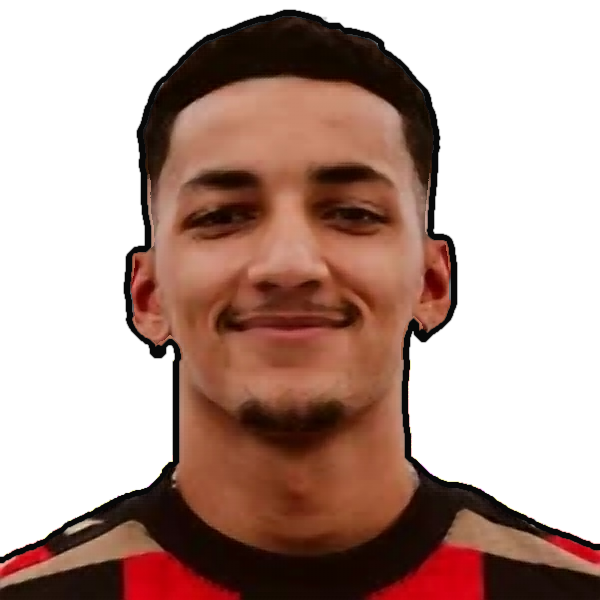
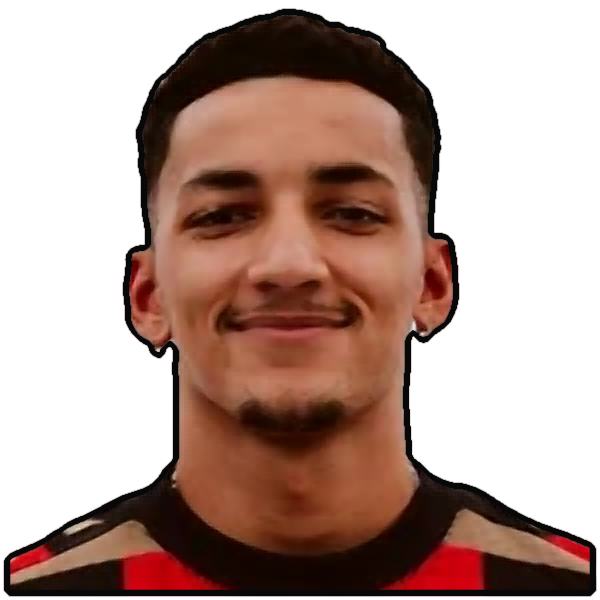
Calidad visual: caras con matting, PNG a 2160x2700, escudos HD, tildes y cartel del cambio; rehechas las del 18/10
Claude-Session: https://claude.ai/code/session_01LpAft37KJfH8XdJiSVxrmS

diff --git a/automatizacion/caras.py b/automatizacion/caras.py
@@ -20,8 +20,92 @@ def _bajar(url):
         return r.read()
 
 
+_sesiones = {}
+
+
+def _mascara(im, modelo):
+    from rembg import remove, new_session
+    if modelo not in _sesiones:
+        _sesiones[modelo] = new_session(modelo)
+    return np.asarray(remove(im, session=_sesiones[modelo], only_mask=True)).astype(float) / 255.0
+
+
 def _sin_fondo(im):
-    """Saca el fondo. 1) rembg (modelo isnet-general-use, el que mejor respeta el pelo) da la máscara de la persona.
+    """Saca el fondo (v2, 18/10/2026).
+    1) Dos modelos: u2net_human_seg (silueta de persona completa: hombros y cara enteros, nunca come piel clara)
+       e isnet-general-use (detalle del pelo). Se usa la unión, la figura más grande y sin agujeros.
+    2) Trimapa: núcleo seguro (erosión), fondo seguro (afuera de la figura dilatada, más el color del fondo
+       conectado al borde) y una banda angosta de duda en el contorno.
+    3) Matting de forma cerrada (pymatting) en la banda: transparencia real pelo por pelo, también en el blanco
+       que queda entre los rulos; y estimación del color de la persona sin el fondo mezclado (sin aureola).
+    Si algo falla, usa el método anterior."""
+    try:
+        return _sin_fondo_matting(im)
+    except Exception as ex:  # noqa
+        print("  aviso: recorte con matting falló, uso el anterior:", ex)
+        return _sin_fondo_v1(im)
+
+
+def _sin_fondo_matting(im):
+    from scipy import ndimage as ndi
+    from pymatting import estimate_alpha_cf, estimate_foreground_ml
+    im = im.convert("RGB")
+    a = np.asarray(im).astype(float)
+    H, W = a.shape[:2]; lado = min(H, W)
+    m_h = _mascara(im, "u2net_human_seg")
+    m_i = _mascara(im, "isnet-general-use")
+    base = np.maximum(m_h, m_i) > 0.5
+    lab, nl = ndi.label(base)
+    if nl > 1:
+        tam = ndi.sum(base, lab, range(1, nl + 1)); base = lab == (1 + int(np.argmax(tam)))
+    base = ndi.binary_fill_holes(base)
+    if base.sum() < 0.05 * H * W:
+        raise ValueError("máscara vacía")
+    # color del fondo (bordes de arriba y costados) y fondo conectado al borde
+    k = max(2, lado // 60)
+    borde = np.concatenate([a[:k].reshape(-1, 3), a[:, :k].reshape(-1, 3), a[:, -k:].reshape(-1, 3)])
+    bg = np.median(borde, axis=0)
+    dist = np.sqrt(((a - bg) ** 2).sum(axis=2))
+    lowd = dist < 18
+    semillas = np.zeros_like(lowd); semillas[0, :] = True
+    h7 = int(H * 0.7); semillas[:h7, 0] = True; semillas[:h7, -1] = True
+    fondo = ndi.binary_propagation(semillas & lowd, mask=lowd)
+    # trimapa
+    r_in, r_out = max(3, int(lado * 0.014)), max(3, int(lado * 0.012))
+    nucleo = ndi.binary_erosion(base, iterations=r_in)
+    nucleo_h = ndi.binary_erosion(m_h > 0.5, iterations=r_in)          # cara/hombros seguros del modelo de personas
+    seguro_fg = (nucleo | nucleo_h) & ~fondo
+    seguro_bg = ~ndi.binary_dilation(base, iterations=r_out) | (fondo & ~ndi.binary_erosion(base, iterations=r_in * 3))
+    tri = np.full((H, W), 0.5)
+    tri[seguro_bg] = 0.0
+    tri[seguro_fg] = 1.0
+    # los hombros que tocan el borde de abajo: siempre persona
+    tri[-max(2, lado // 100):][base[-max(2, lado // 100):]] = 1.0
+    img = a / 255.0
+    alfa = estimate_alpha_cf(img, tri, laplacian_kwargs={"epsilon": 1e-6}, cg_kwargs={"maxiter": 2000})
+    alfa = np.clip(alfa, 0, 1)
+    # sin motas sueltas: solo lo conectado a la figura principal
+    sol = alfa > 0.15
+    lab, nl = ndi.label(sol)
+    if nl > 1:
+        tam = ndi.sum(sol, lab, range(1, nl + 1)); keep = lab == (1 + int(np.argmax(tam)))
+        alfa = np.where(keep, alfa, 0.0)
+    # hombros y camiseta (abajo): la camiseta clara se confunde con el fondo blanco -> silueta del modelo de
+    # personas, alisada (contorno prolijo), con transición suave hacia la zona de la cabeza
+    r = max(3, lado // 80)
+    yy, xx = np.ogrid[-r:r + 1, -r:r + 1]; disco = xx * xx + yy * yy <= r * r
+    hom = ndi.binary_closing(ndi.binary_opening(m_h > 0.5, structure=disco), structure=disco)
+    hom = ndi.gaussian_filter(hom.astype(float), max(1.0, lado / 400)) 
+    hom = np.clip((hom - 0.5) * 4 + 0.5, 0, 1)
+    peso = np.clip((np.arange(H)[:, None] / H - 0.58) / 0.08, 0, 1) * np.ones((1, W))
+    alfa = alfa * (1 - peso) + hom * peso
+    alfa = np.where(alfa < 0.04, 0.0, np.where(alfa > 0.97, 1.0, alfa))
+    fg = estimate_foreground_ml(img, alfa)
+    return Image.fromarray(np.dstack([np.clip(fg * 255, 0, 255), alfa * 255]).astype("uint8"), "RGBA")
+
+
+def _sin_fondo_v1(im):
+    """Saca el fondo (método anterior). 1) rembg (modelo isnet-general-use, el que mejor respeta el pelo) da la máscara de la persona.
     2) Lo que tiene el color del fondo y está conectado al borde de arriba o de los costados se borra aunque el
        modelo lo haya incluido (el blanco entre rulos, los halos alrededor de la cabeza).
     3) En el borde, la transparencia sale de la distancia al color del fondo y se le saca al color el fondo
@@ -115,6 +199,15 @@ def _contorno(im, grosor=None):
     m = a[..., 3] > 110
     if not m.any():
         return im
+    # una sola figura y sin agujeros: el contorno va solo por afuera (sin puntos ni líneas sueltas)
+    lab, nl = ndi.label(m)
+    if nl > 1:
+        tam = ndi.sum(m, lab, range(1, nl + 1)); m = lab == (1 + int(np.argmax(tam)))
+    m = ndi.binary_fill_holes(m)
+    # contorno parejo: sin dientes de 1-2 px que el trazo negro exagera
+    m = ndi.binary_opening(ndi.binary_closing(m, iterations=2), iterations=1)
+    m = ndi.gaussian_filter(m.astype(float), max(1.0, min(H, W) / 300)) > 0.5
+    a[..., 3] = np.where(m, np.maximum(a[..., 3], 0), 0)
     dentro = m & ~ndi.binary_erosion(m, iterations=max(1, g // 2 + 1), border_value=1)
     fuera = ndi.binary_dilation(m, iterations=max(1, g - g // 2)) & ~m
     banda = ndi.gaussian_filter((dentro | fuera).astype(float), 0.7)
@@ -198,6 +291,26 @@ def cara_oficial(clave, carpeta, url=None):
         return None
 
 
+def _escudo_hd(im, lado=600):
+    """Escudo de 150 px agrandado a 600 con superresolución (color) y LANCZOS (transparencia), para que
+    se vea nítido en el PNG al doble de resolución (marcas de agua, marcador, cancha)."""
+    im = im.convert("RGBA")
+    if im.size[0] >= lado:
+        return im
+    alfa = im.getchannel("A")
+    # el color de los píxeles transparentes se rellena con el vecino opaco (sin bordes negros al agrandar)
+    from scipy import ndimage as ndi
+    a = np.asarray(im).astype(float)
+    op = a[..., 3] > 8
+    if op.any() and not op.all():
+        idx = ndi.distance_transform_edt(~op, return_indices=True)[1]
+        a[..., :3] = a[idx[0], idx[1], :3]
+    rgb = _agrandar(Image.fromarray(a[..., :3].astype("uint8"), "RGB"), lado)
+    al = alfa.resize((lado, lado), Image.LANCZOS)
+    out = rgb.convert("RGBA"); out.putalpha(al)
+    return out
+
+
 def escudo(tid, carpeta):
     os.makedirs(carpeta, exist_ok=True)
     ruta = os.path.join(carpeta, f"escudo_{tid}.png")
@@ -206,9 +319,15 @@ def escudo(tid, carpeta):
     cache = os.path.join(AQUI, "escudos", f"{tid}.png")
     try:
         im = Image.open(io.BytesIO(_bajar(f"{BASE}/team/{tid}/image"))).convert("RGBA")
-        im.save(ruta)
         os.makedirs(os.path.dirname(cache), exist_ok=True)
         im.save(cache)
+        _escudo_hd(im).save(ruta)
         return ruta
     except Exception:
-        return cache if os.path.exists(cache) else None
+        if os.path.exists(cache):
+            try:
+                _escudo_hd(Image.open(cache)).save(ruta)
+                return ruta
+            except Exception:
+                return cache
+        return None

diff --git a/automatizacion/render_v3.py b/automatizacion/render_v3.py
@@ -22,6 +22,7 @@ if os.path.isdir("/opt/pw-browsers"):  # nube de Claude
 
 AQUI = os.path.dirname(os.path.abspath(__file__))
 W, HH = 1080, 1350
+ESCALA = 2   # el PNG sale a 2160x2700 (mismo diseño, el doble de nitidez; Instagram lo baja a 1080 sin perder calidad)
 
 
 def b64(path):
@@ -100,11 +101,11 @@ h1{position:absolute;top:70px;width:100%;text-align:center;font-weight:900;line-
 .plate .cr img{object-fit:contain}
 .yo .plate .n{background:#f2c14e}
 .slot.sale .ph > img,.slot.sale .ph > .num{opacity:.45;filter:grayscale(.6)}
-.slot .entra{position:absolute;right:-26px;top:-14px;border-radius:50%;border:3px solid #f2c14e;background:rgba(20,22,25,.85);overflow:hidden;
+.slot .entra{position:absolute;right:-30px;top:-4px;border-radius:50%;border:3px solid #f2c14e;background:rgba(20,22,25,.85);overflow:hidden;
  box-shadow:0 0 0 4px rgba(242,193,78,.3),0 4px 10px rgba(0,0,0,.4);z-index:3}
 .slot .entra img{width:100%;height:100%;object-fit:cover;object-position:top}
-.chip{background:#f2c14e;color:#14171a;font-weight:900;font-size:13px;letter-spacing:.5px;border-radius:6px;padding:1px 7px;margin-top:3px;white-space:nowrap;
- box-shadow:0 3px 8px rgba(0,0,0,.35);text-transform:uppercase}
+.chip{position:absolute;left:50%;bottom:6px;transform:translateX(-50%);z-index:5;background:#f2c14e;color:#14171a;font-weight:900;font-size:12px;letter-spacing:.3px;
+ border-radius:6px;padding:1px 7px;white-space:nowrap;box-shadow:0 3px 8px rgba(0,0,0,.45);text-transform:uppercase}
 .tile .x{font-weight:800;font-size:19px;letter-spacing:1px;color:#f2c14e;margin-top:4px;text-transform:uppercase}
 .tab{background:#1b1e21;border-radius:0 0 7px 7px;padding:0 8px 1px;margin-top:-1px}
 .stars{color:#f2c14e;letter-spacing:1px;line-height:1.1}
@@ -228,11 +229,12 @@ def pitch_html(d, base, escudo_club):
                 ci = b64(sub.get("cara"))
                 entra = (f'<div class="entra" style="width:{int(size*.72)}px;height:{int(size*.72)}px">'
                          + (f'<img src="{ci}">' if ci else '') + '</div>')
+            chip = (f'<div class="chip">⇄ Entra {esc(sub.get("apellido",""))} {esc(sub.get("minuto",""))}</div>' if sub else "")
             out += (f'<div class="slot{" yo" if p.get("yo") else ""}{" sale" if sub else ""}" style="left:{x}px;top:{y_face_bottom - size}px;z-index:{(40 if sub else 10)+i}">'
-                    f'<div class="ph">{ph}{entra}{tarjetas_html(p)}</div>'
+                    f'<div class="ph">{ph}{entra}{tarjetas_html(p)}{chip}</div>'
                     f'<div class="plate"><div class="n" style="font-size:{fs}px;max-width:{int(112 if k<=3 else 100)}px"><span>{nombre}</span></div>{crest}</div>'
                     + (f'<div class="tab">{st}</div>' if st else "")
-                    + (f'<div class="chip">⇄ Entra {esc(sub.get("apellido",""))} {esc(sub.get("minuto",""))}</div>' if sub else "") + '</div>')
+                    + '</div>')
     return out
 
 
@@ -376,13 +378,14 @@ async def main(path):
     base = os.path.dirname(os.path.abspath(path))
     async with async_playwright() as pw:
         b = await pw.chromium.launch()
-        pg = await b.new_page(viewport={"width": W, "height": HH})
+        pg = await b.new_page(viewport={"width": W, "height": HH}, device_scale_factor=ESCALA)
         for d in data:
             d = _abs(dict(d), base)
             h = os.path.join(base, d["archivo"] + ".html")
             open(h, "w").write(html(d, base))
             await pg.goto("file://" + h)
-            await pg.wait_for_timeout(150)
+            await pg.evaluate("document.fonts.ready")
+            await pg.wait_for_timeout(300)
             await pg.screenshot(path=os.path.join(base, d["archivo"] + ".png"))
             os.remove(h)
             print("OK", os.path.join(base, d["archivo"] + ".png"))

diff --git a/automatizacion/infografia_sofascore.py b/automatizacion/infografia_sofascore.py
@@ -64,6 +64,21 @@ def fecha_local(e):
 def apellido(p):
     return p.get("lastName") or p.get("shortName", p["name"]).split(" ")[-1]
 
+def _sin_tildes(t):
+    import unicodedata
+    return "".join(c for c in unicodedata.normalize("NFD", t) if unicodedata.category(c) != "Mn").lower()
+
+
+def apellido_placa(p, placa):
+    """Apellido para mostrar: el de la fuente, pero con las tildes del nombre de jugadores.json
+    (la fuente a veces lo trae sin tilde: "Caceres" -> "Cáceres")."""
+    ap = apellido(p)
+    for w in (placa or "").split():
+        if _sin_tildes(w) == _sin_tildes(ap):
+            return w.capitalize() if ap[:1].isupper() else w.lower()
+    return ap
+
+
 def corto(p):
     s = p.get("shortName") or p["name"]
     return s.split(". ", 1)[1] if ". " in s else s
@@ -565,6 +580,10 @@ def armar_partido(j, e, salida, plantilla_fig, extra=None):
             tiros = get(f"/event/{e['id']}/shotmap/player/{pid}").get("shotmap", [])
         except Exception:
             tiros = None
+        # sin remates en todo el partido: en su franja también son 0/0 (no hace falta el mapa de remates)
+        tot = n(s, "totalShots") if "totalShots" in s else n(s, "onTargetScoringAttempt") + n(s, "shotOffTarget") + n(s, "blockedScoringAttempt")
+        if tiros is None and tot == 0:
+            tiros = []
     zona = por_zona(j.get("zona"), puntos, rb, tiros, s, con_ataque, con_volante) or zona
     if r == "delantero" and s.get("expectedGoals") is None:
         xg = (datos.get("understat") or {}).get("stats", {}).get("xg")
@@ -577,7 +596,7 @@ def armar_partido(j, e, salida, plantilla_fig, extra=None):
         import shutil
         os.makedirs(os.path.join(AQUI, "escudos"), exist_ok=True)
         shutil.copy2(esc_club, os.path.join(AQUI, "escudos", ("uruguay" if equipo.get("national") else f"club_{clave}") + ".png"))
-    d = {"archivo": archivo, "nombre": j["placa"], "apellido": apellido(player), "dorsal": dorsal,
+    d = {"archivo": archivo, "nombre": j["placa"], "apellido": apellido_placa(player, j["placa"]), "dorsal": dorsal,
          "local": home, "visita": away, "goles_local": hs, "goles_visita": as_,
          "escudo_local": escudo(e["homeTeam"]["id"], recursos), "escudo_visita": escudo(e["awayTeam"]["id"], recursos),
          "escudo_club": esc_club,
@@ -586,7 +605,7 @@ def armar_partido(j, e, salida, plantilla_fig, extra=None):
          "minutos": f"{minutos}’", "nota": f"{rating:.1f}" if rating else None, "estrellas": estrellas(rating),
          "tema": tema(cam, equipo), "formacion": form, "once": once,
          "cara": mi_cara, "foto": os.path.join(salida, fig) if fig else None,
-         "sustitucion": ({"minuto": sustitucion["minuto"], "por": sustitucion["por"], "apellido": apellido(player), "cara": mi_cara,
+         "sustitucion": ({"minuto": sustitucion["minuto"], "por": sustitucion["por"], "apellido": apellido_placa(player, j["placa"]), "cara": mi_cara,
                           "rol": pos_titulo.replace("COMO ", "").lower()} if sustitucion else None),
          "generales": generales, "pos_titulo": pos_titulo, "posicion": pos_filas,
          "extra": {"titulo": "TEMPORADA", "sub": str(year) if year else "", "filas": filas_t},

diff --git a/automatizacion/mapa_sofascore.py b/automatizacion/mapa_sofascore.py
@@ -81,7 +81,7 @@ def dibujar_horizontal(puntos, salida, zona=None):
     H = H / H.max() if H.max() > 0 else H
     cmap = LinearSegmentedColormap.from_list("calor", [(0, (1, .88, .4, 0)), (.18, (1, .88, .4, .35)),
                                                        (.45, (1, .7, .12, .7)), (.75, (1, .35, .12, .85)), (1, (.85, .08, .08, .95))])
-    fig = plt.figure(figsize=(L / 12, W / 12), dpi=130)
+    fig = plt.figure(figsize=(L / 12, W / 12), dpi=230)
     ax = fig.add_axes([0, 0, 1, 1]); ax.set_xlim(-2, L + 2); ax.set_ylim(-2, W + 2); ax.axis("off")
     fig.patch.set_facecolor("#2b2e31"); ax.set_facecolor("#2b2e31")
     ax.imshow(H, extent=[0, L, 0, W], origin="lower", cmap=cmap, interpolation="bilinear", zorder=2, aspect="auto")
@@ -101,7 +101,7 @@ def dibujar_horizontal(puntos, salida, zona=None):
             if (a0, a1) != (y0, y1):
                 ax.add_patch(Rectangle((0, a0), L, a1 - a0, fc=(0.08, 0.09, 0.1, .38), ec="none", zorder=4))
         ax.add_patch(Rectangle((0.4, y0 + 0.4), L - 0.8, y1 - y0 - 0.8, fill=False, lw=2.6, ec="#f2c14e", ls=(0, (6, 3)), zorder=5))
-    fig.savefig(salida, dpi=130, facecolor=fig.get_facecolor())
+    fig.savefig(salida, dpi=230, facecolor=fig.get_facecolor())
     plt.close(fig)
 
 

diff --git a/automatizacion/AGENTE.md b/automatizacion/AGENTE.md
@@ -16,7 +16,8 @@ Desde el 15/10/2026 este repositorio de GitHub (tuscxm/celestes-por-el-mundo) es
   - **BeSoccer** (es.besoccer.com): no deja entrar a los scripts. **Antes de correr el script**, la tarea de Claude lee con WebFetch las páginas de partidos de cada jugador (ver "BeSoccer como fuente diaria") y deja lo leído en `automatizacion/besoccer_hoy.json`. El script lo toma como una fuente más (nota, minutos, goles, tarjetas, notas del once).
 - **Desde cuándo**: las fuentes extra (incluida BeSoccer como fuente diaria) se usan para los partidos **del 18/10/2026 en adelante** (`DESDE` en `fuentes.py`). Los partidos anteriores quedan como estaban (solo SofaScore).
 - **Tarjetas**: las rojas (y amarillas) se ven en la cancha junto a la cara de cada jugador; si el protagonista fue expulsado, también al lado de su foto grande, "EXPULSADO AL <minuto>" bajo los minutos y "🟥 Expulsado al <minuto>'" en el texto del posteo.
-- **Caras**: `caras.py` agranda la foto con superresolución (FSRCNN x4, `modelos/FSRCNN_x4.pb`), recorta con rembg (modelo isnet-general-use) y además borra el fondo claro que queda entre el pelo y alrededor de la cabeza, alisa el contorno de los hombros y limpia la aureola del borde.
+- **Caras** (desde el 18/10/2026, v2): `caras.py` agranda la foto con superresolución (FSRCNN x4, `modelos/FSRCNN_x4.pb`) y recorta con dos modelos de rembg: `u2net_human_seg` (silueta entera de la persona: nunca come piel clara ni hombros) e `isnet-general-use` (detalle del pelo). Con la unión arma un trimapa y hace matting de forma cerrada con pymatting (transparencia pelo por pelo, también el blanco entre rulos, y color sin aureola). Los hombros salen de la silueta de personas, alisados. El contorno negro va solo por afuera de la figura (sin puntos ni líneas sueltas). Si el matting falla, usa el método anterior. Los modelos BiRefNet/BRIA no entran en la memoria de la nube (se probaron: se cortan).
+- **Resolución**: `render_v3.py` saca el PNG a 2160x2700 (mismo diseño de 1080x1350, al doble de nitidez). Los escudos se agrandan a 600 px con superresolución y el mapa de calor se dibuja a 230 dpi.
 - **Tarjetas en las tarjetas de datos**: "Su partido", el cuadro de la posición ("Como mediocentro", etc.) y "Temporada" muestran amarillas y rojas con su dibujo (`2[A] · 1[R]` en los datos).
 - **Su franja de la cancha** (campo `zona` de `jugadores.json`): Valverde `derecha`, Mouriño `centro`, Araújo `izquierda`, Bernal `centro`. En la tarjeta del mapa de calor, debajo del mapa, va "POR LA DERECHA / POR EL CENTRO / POR LA IZQUIERDA" con lo que hizo en esa franja: acciones (puntos del mapa de calor), pases precisos, pases clave, regates, recuperaciones, intercepciones · despejes y conducciones. Sale de las acciones con ubicación de SofaScore (rating-breakdown y mapa de calor; y < 33 derecha, 33-67 centro, > 67 izquierda, siempre desde el lado de su equipo). Duelos, faltas y toques no se pueden separar por franja: no van. Si no hay datos con ubicación, no se muestra y queda en los avisos.
 - **Volantes, mediocentros y mixtos** (puesto mediocentro o volante por banda en el partido, o `"mixto": true` en `jugadores.json`: Valverde y Araújo): en TOTALES se suman "Pases al último tercio" (pases precisos / intentados que terminaron en el último tercio de la cancha) y "Recup. def · med · ata" (recuperaciones en cada tercio). Salen de las acciones con ubicación de SofaScore; si no están, no se muestran.
@@ -36,7 +37,7 @@ Desde el 18/10/2026: fondo con los colores del club, rayas diagonales y dos escu
 Fondo con los colores del club (campo `fondo` de cada camiseta en `jugadores.json`: color 1, color 2, acento), escudo grande de marca de agua, cancha oscura con las caras recortadas del once (estrellas según la nota de cada uno: 8+ = 5, 7,3+ = 4, 6,7+ = 3, 6+ = 2), cara grande del jugador con placa y escudo, minutos y nota, y abajo las tarjetas: su partido, su juego según la posición, mapa de calor y temporada. Tipografía Barlow Condensed (en `fuentes/`, licencia OFL).
 Para la imagen grande, en partidos del club, se usa primero la foto oficial que esté en `fotos_oficiales/<clave>.png|jpg` (o la URL directa del campo `foto_oficial` de `jugadores.json`, si la red la deja bajar); si no hay, la de la fuente de datos. Las caras salen de la foto del jugador y se les saca el fondo con rembg. Las de los jugadores seguidos se guardan en `caras/` y los escudos en `escudos/`, para usarlas aunque falle la fuente. Si no hay foto, se usa la figura ilustrada.
 
-Si entró de suplente, la infografía lo marca: la etiqueta dice "SUPLENTE · ENTRÓ DE <puesto>", el recuadro de minutos dice en qué minuto entró, y en la cancha su cara aparece sobre el jugador al que reemplazó, con "⇄ ENTRA <apellido> <minuto>". El texto del posteo y el aviso también lo dicen.
+Si entró de suplente, la infografía lo marca: la etiqueta dice "SUPLENTE · ENTRÓ DE <puesto>", el recuadro de minutos dice en qué minuto entró, y en la cancha su cara aparece sobre el jugador al que reemplazó, con "⇄ ENTRA <apellido> <minuto>" encima de la cara del que salió (no debajo de la placa, para no pisar la línea de abajo). El apellido de las placas toma las tildes del nombre de `jugadores.json` ("Caceres" → "CÁCERES"). El texto del posteo y el aviso también lo dicen.
 
 ## Jugadores
 Están en `automatizacion/jugadores.json`. Cada uno tiene `sofascore_id`, placa, altura, pie, nacimiento y colores de camiseta (club y Uruguay, clave "7").

diff --git a/avisos/2026-10-18_1832.md b/avisos/2026-10-18_1832.md
@@ -78,3 +78,7 @@ No se publicó nada en Instagram. Cerrá este aviso cuando la publiques o la des
 - Valverde: sin problemas a la vista (franja derecha bien marcada, último tercio y recuperaciones por tercio presentes, LaLiga y Champions en TEMPORADA).
 - Fuentes extra: API-Football dio HTTP 403 (falta la clave o no es válida); football-data.org, TheSportsDB, Understat y zerozero dieron "dominio no habilitado en la red de la nube". Solo respondieron SofaScore y FotMob.
 - BeSoccer: no se pudo leer en esta corrida (la herramienta web pidió permiso para es.besoccer.com y nadie lo aprobó), así que besoccer_hoy.json quedó vacío.
+
+## Ajustes hechos (18/10, después de la revisión)
+- Se rehicieron las tres infografías: Cáceres con la cara bien recortada, placas con tilde (CÁCERES, RODRÍGUEZ), el cartel del cambio de Á. Rodríguez sobre la cara de Evanilson (ya no pisa a Cook y Christie) y "Remates al arco 0/0" en su bloque de la franja.
+- Desde ahora: PNG a 2160x2700, nuevo recorte de caras (dos modelos + matting), escudos y mapa de calor en alta.
